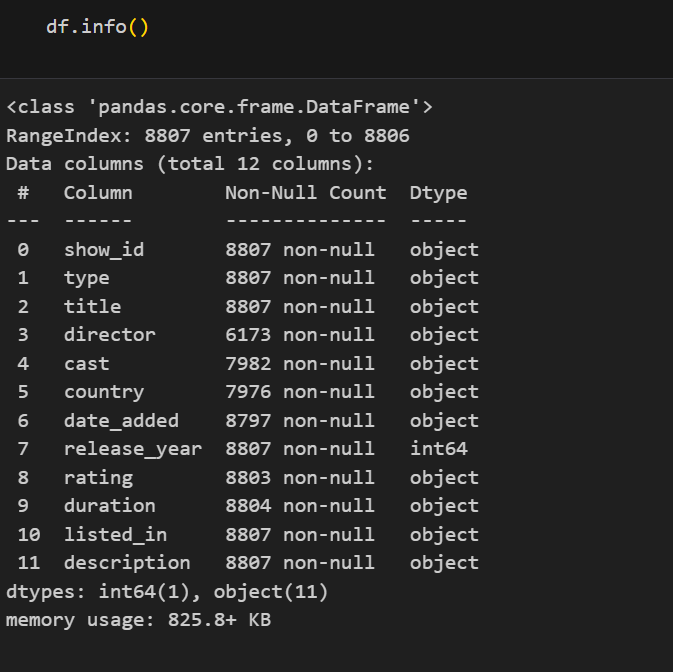
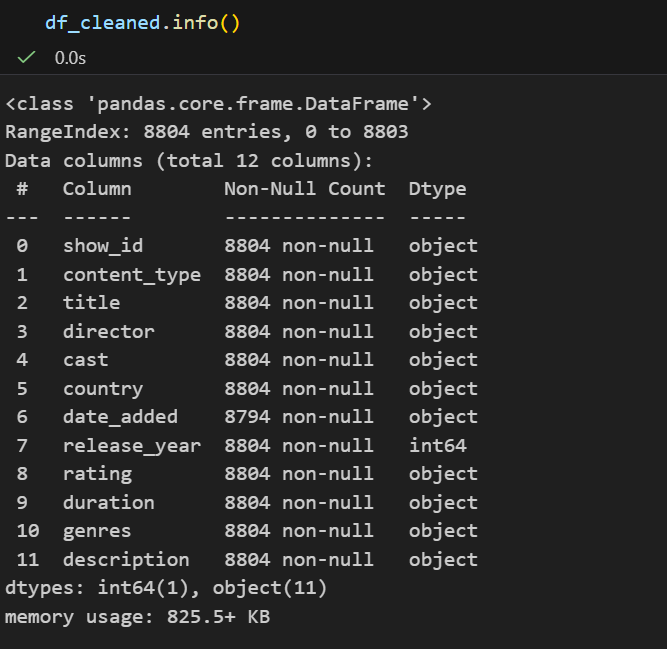
Last Commit

diff --git a/README.md b/README.md
@@ -1,0 +1,115 @@
+# Netflix Movies Data Cleaning Project
+
+This repository documents the data cleaning and preparation process applied to the **Netflix Movies dataset**. The workflow follows a staged approach, starting with Excel-based cleaning and progressing to standardization and validation in a Jupyter Notebook. The goal is to ensure data quality, transparency, and reproducibility while preserving the integrity of the original dataset.
+
+---
+
+## Project Overview
+
+* **Dataset:** Netflix Movies
+* **Cleaning Tools:** Excel, Power Query, Jupyter Notebook (Python / pandas)
+* **Approach:** Stepwise cleaning → standardization → validation
+* **Note:** No external data enrichment was performed
+
+---
+
+## 1. Raw Data Inspection
+
+The raw dataset was first inspected to understand its structure, identify missing values, and detect obvious data quality issues.
+
+**Screenshot:** First 10 rows of the raw dataset
+
+![Raw Netflix data](images/neftlix_movies_raw_20251219.png)
+
+This inspection revealed missing values in several descriptive metadata columns, inconsistent text formatting, and column names that required standardization for analysis.
+
+---
+
+## 2. Excel-Based Cleaning
+
+Initial cleaning was performed in Excel to correct missing values and improve text consistency while preserving all records.
+
+### 2.1 Handling Missing Values
+
+Missing values were identified primarily in descriptive columns (*director*, *cast*, *country*, *rating*, and *duration*). Explicit placeholders such as **"Not Available"** or **"Unrated"** were used to preserve records and maintain consistency. Missing values in the *date_added* column were left blank to avoid introducing temporal bias.
+
+**Screenshot:** Missing values highlighted and replaced in Excel
+
+![Filled missing values](images/filled_missing_values_excel.png)
+
+---
+
+### 2.2 Power Query Text Cleaning
+
+Power Query was used to further prepare the dataset by trimming and cleaning text fields, correcting data types, and removing unnecessary columns. This step ensured consistent formatting prior to exporting the dataset for Python-based analysis.
+
+**Screenshot:** Power Query transformations
+
+![Power Query cleaning](images/power_query_trim_and_clean_txt.png)
+
+---
+
+### 2.3 Cleaned Excel Output
+
+After completing Excel and Power Query cleaning, the dataset was saved as an intermediate cleaned version.
+
+**Screenshot:** First 10 rows of the cleaned Excel dataset
+
+![Cleaned Excel data](images/netflix_movies_cleaned_excel_20251219.png)
+
+---
+
+## 3. Jupyter Notebook Standardization
+
+The cleaned Excel dataset was imported into a Jupyter Notebook for column standardization and validation using Python.
+
+### 3.1 Column Name Standardization
+
+To improve clarity and compatibility with Python, column names were standardized:
+
+* `type` → `content_type`
+* `listed_in` → `genres`
+* All column names converted to lowercase and stripped of extra spaces
+
+**Screenshot:** Column renaming in Jupyter Notebook
+
+![Jupyter column cleaning](images/jupyter_notebook_clean_netflix_data.png)
+
+---
+
+## 4. Data Validation
+
+After cleaning and standardization, the dataset was validated using pandas inspection methods to confirm data types, missing values, and summary statistics.
+
+**Screenshot:** Dataset structure and data types (`df.info()`)
+
+![df.info output](images/jupyter_notebook_info_on_netflix_data.png)
+
+---
+
+## 5. Cleaning Decisions Summary
+
+| Step           | Area             | Action Taken                   | Reason                           |
+| -------------- | ---------------- | ------------------------------ | -------------------------------- |
+| Raw inspection | All columns      | Initial review                 | Identify data quality issues     |
+| Missing values | Metadata columns | Used explicit placeholders     | Preserve records and consistency |
+| Text cleaning  | Power Query      | Trimmed and cleaned text       | Improve formatting               |
+| Column names   | Jupyter Notebook | Renamed and standardized       | Python compatibility             |
+| Validation     | Jupyter Notebook | Used `info()` and `describe()` | Verify data quality              |
+| External data  | All              | No enrichment performed        | Maintain reproducibility         |
+
+---
+
+## Methodological Note
+
+This project distinguishes clearly between **data cleaning** and **data enrichment**. Only information present in the original dataset was used. External sources were intentionally excluded to preserve reproducibility, transparency, and analytical integrity.
+
+---
+
+## Output Files
+
+* `netflix_movies_raw_20251219.xlsx`
+* `netflix_movies_cleaned_v1_20251222.xlsx`
+* `netflix_movies_cleaned_2_20251222.csv`
+
+---
